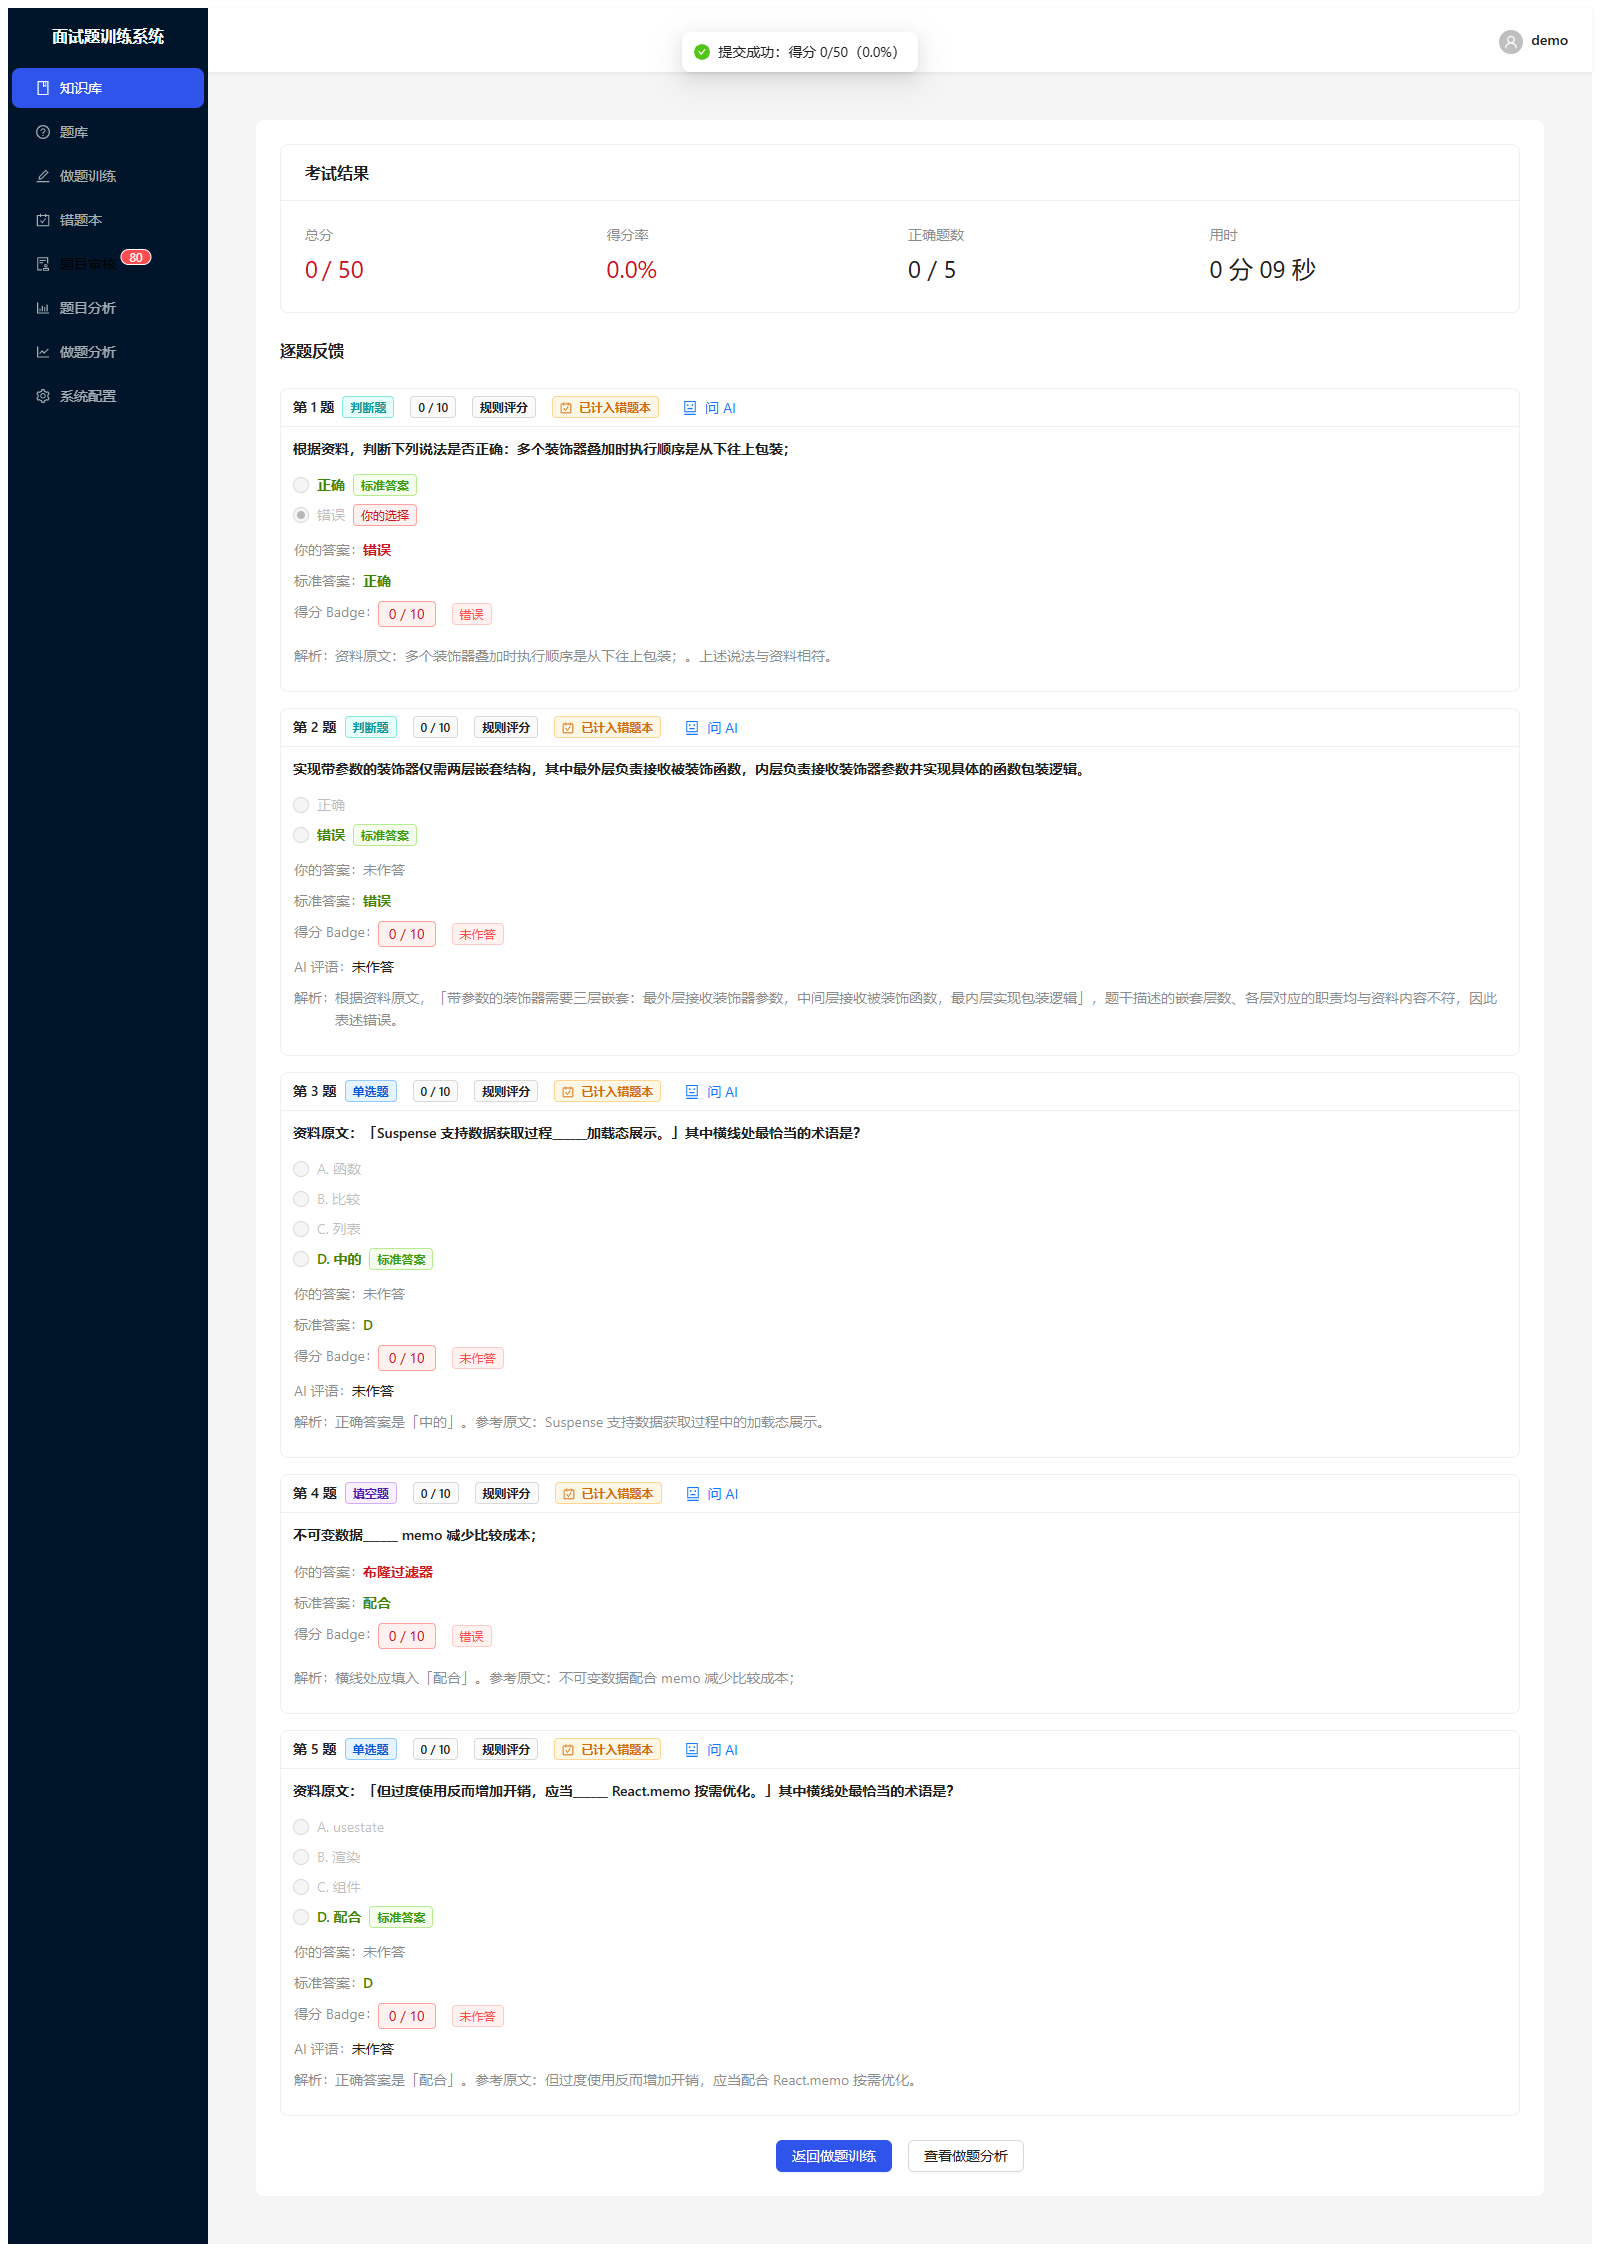
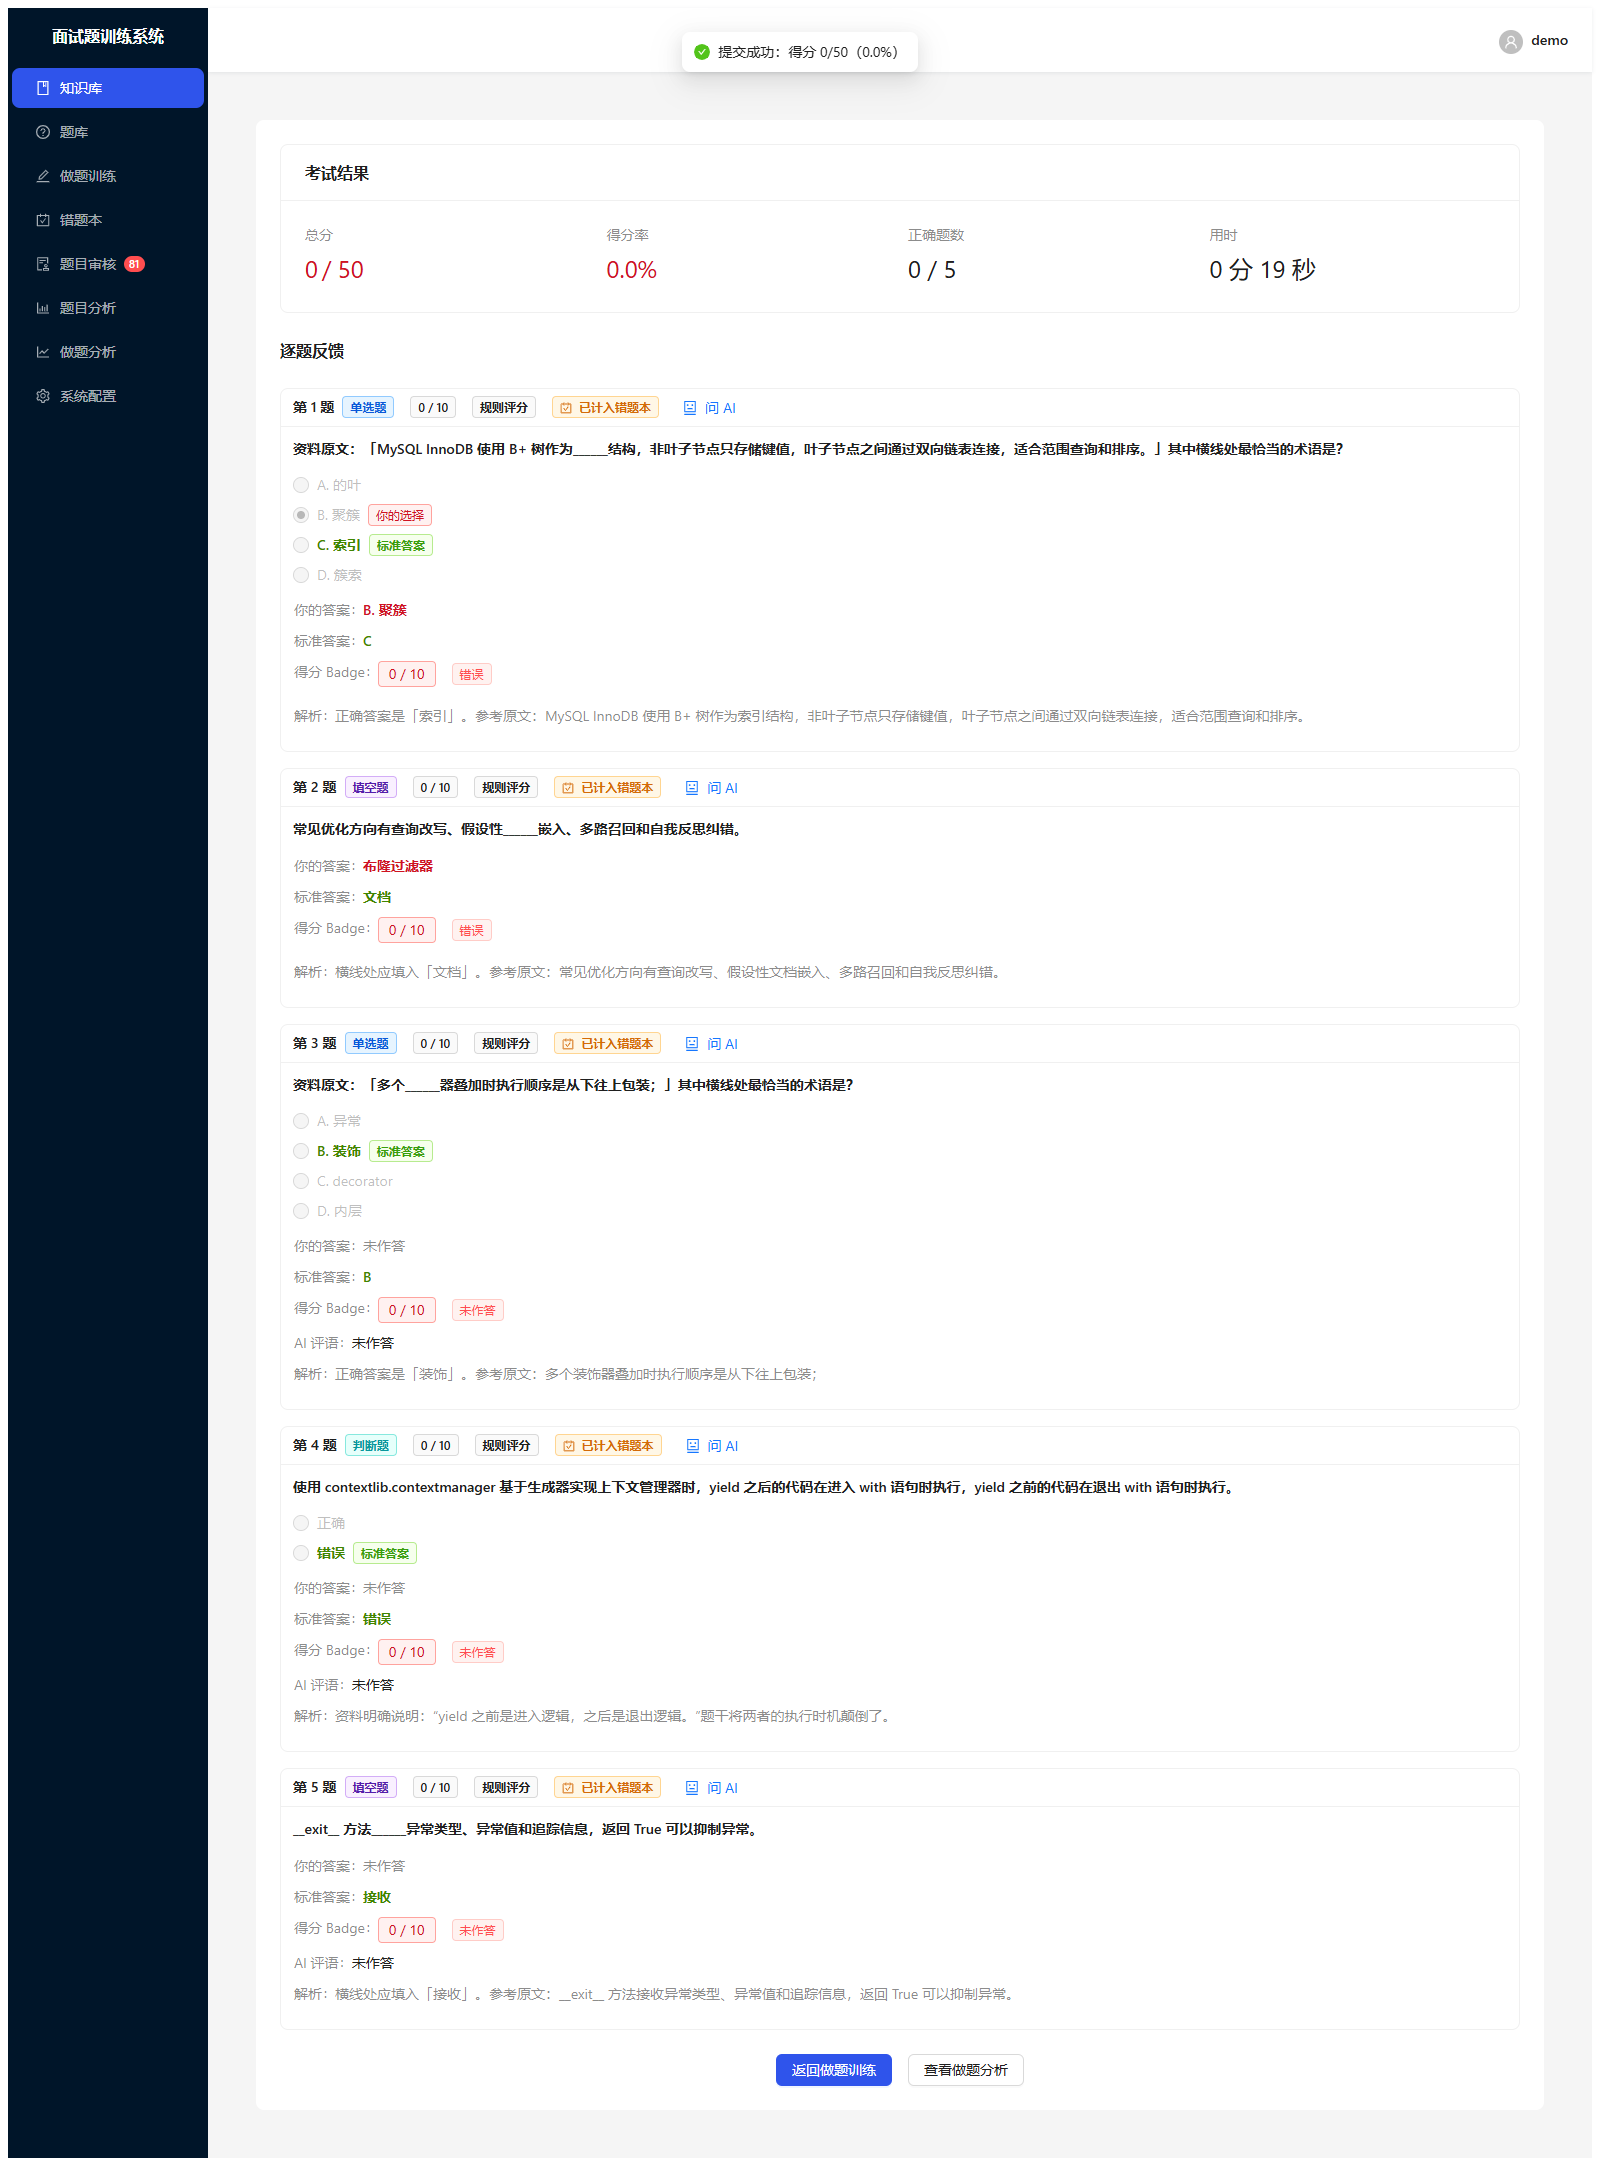
fix(ui): 侧边栏徽标文字颜色 + 表格横向溢出 + 内容区布局约束
问题与根因：
1. 「题目审核」菜单带徽标时文字变黑（深色侧栏上看不清）
   根因：antd Badge 的 class 强制 color: rgba(0,0,0,0.88) 且 style prop 不透传
   修复：改用自定义红点徽标（显式 color: inherit + 红底白字）
2. 审核/错题本表格内容横向溢出到卡片外（无滚动）
   根因：两页 Table 未设 scroll，容器 overflow: visible
   修复：加 scroll={{ x }} + 操作列 fixed right
3. 右侧内容区被宽内容撑破（白边错位）
   根因：flex 子项默认 min-width:auto 不收缩
   修复：右侧 Layout minWidth:0、Content overflow:auto、
        白色容器 maxWidth:100% + overflow:hidden

验证：1366 视口下无横向溢出、表格容器内滚动（overflowX:auto）、
菜单文字 rgba(255,255,255,0.65)、徽标红底白字；E2E 13/13 全绿

diff --git a/frontend/src/components/AppLayout.tsx b/frontend/src/components/AppLayout.tsx
@@ -1,5 +1,5 @@
 import { Outlet, useLocation, useNavigate } from 'react-router-dom'
-import { Badge, Layout, Menu, Dropdown, Avatar, Space, Typography } from 'antd'
+import { Layout, Menu, Dropdown, Avatar, Space, Typography } from 'antd'
 import {
   BookOutlined,
   QuestionCircleOutlined,
@@ -27,14 +27,30 @@ export default function AppLayout() {
   const { data: questionStats } = useQuestionStats(30_000)
   const pendingCount = questionStats?.pending_count ?? 0
 
-  const reviewLabel =
-    pendingCount > 0 ? (
-      <Badge count={pendingCount} size="small" offset={[8, 0]}>
-        <span style={{ marginRight: 12 }}>题目审核</span>
-      </Badge>
-    ) : (
-      '题目审核'
-    )
+  // 自定义徽标：antd Badge 会强制 color: rgba(0,0,0,0.88)（深色侧栏上文字变黑看不清），
+  // 且其 style prop 不透传，故手写红点徽标并显式继承菜单文字颜色。
+  const reviewLabel = (
+    <span style={{ display: 'inline-flex', alignItems: 'center', gap: 8, color: 'inherit' }}>
+      题目审核
+      {pendingCount > 0 && (
+        <span
+          style={{
+            background: '#ff4d4f',
+            color: '#fff',
+            borderRadius: 9,
+            fontSize: 11,
+            lineHeight: '16px',
+            padding: '0 5px',
+            minWidth: 16,
+            textAlign: 'center',
+            fontWeight: 500,
+          }}
+        >
+          {pendingCount > 99 ? '99+' : pendingCount}
+        </span>
+      )}
+    </span>
+  )
 
   const menuItems: MenuProps['items'] = [
     { key: '/knowledge', icon: <BookOutlined />, label: '知识库' },
@@ -91,7 +107,7 @@ export default function AppLayout() {
           onClick={({ key }) => navigate(key)}
         />
       </Sider>
-      <Layout>
+      <Layout style={{ minWidth: 0 }}>
         <Header
           style={{
             background: '#fff',
@@ -109,13 +125,15 @@ export default function AppLayout() {
             </Space>
           </Dropdown>
         </Header>
-        <Content style={{ margin: 24, padding: 24, background: '#f5f5f5' }}>
+        <Content style={{ margin: 24, padding: 24, background: '#f5f5f5', overflow: 'auto' }}>
           <div
             style={{
               background: '#fff',
               borderRadius: 8,
               padding: 24,
               minHeight: 'calc(100vh - 160px)',
+              maxWidth: '100%',
+              overflow: 'hidden',
             }}
           >
             <Outlet />

diff --git a/frontend/src/pages/Review.tsx b/frontend/src/pages/Review.tsx
@@ -142,7 +142,8 @@ export default function Review() {
     {
       title: '操作',
       key: 'action',
-      width: 200,
+      width: 210,
+      fixed: 'right' as const,
       render: (_: unknown, record: Question) => (
         <Space size={4}>
           <Button
@@ -221,6 +222,7 @@ export default function Review() {
           loading={loading}
           columns={columns}
           dataSource={items}
+          scroll={{ x: 1000 }}
           rowSelection={{
             selectedRowKeys: selectedIds,
             onChange: (keys) => setSelectedIds(keys as number[]),

diff --git a/frontend/src/pages/WrongQuestions.tsx b/frontend/src/pages/WrongQuestions.tsx
@@ -125,7 +125,8 @@ export default function WrongQuestions() {
     {
       title: '操作',
       key: 'action',
-      width: 200,
+      width: 220,
+      fixed: 'right' as const,
       render: (_: unknown, item: WrongQuestionItem) => (
         <Space size={4}>
           <Button
@@ -292,6 +293,7 @@ export default function WrongQuestions() {
           loading={loading}
           columns={columns}
           dataSource={items}
+          scroll={{ x: 1050 }}
           pagination={{
             current: page,
             pageSize: size,
